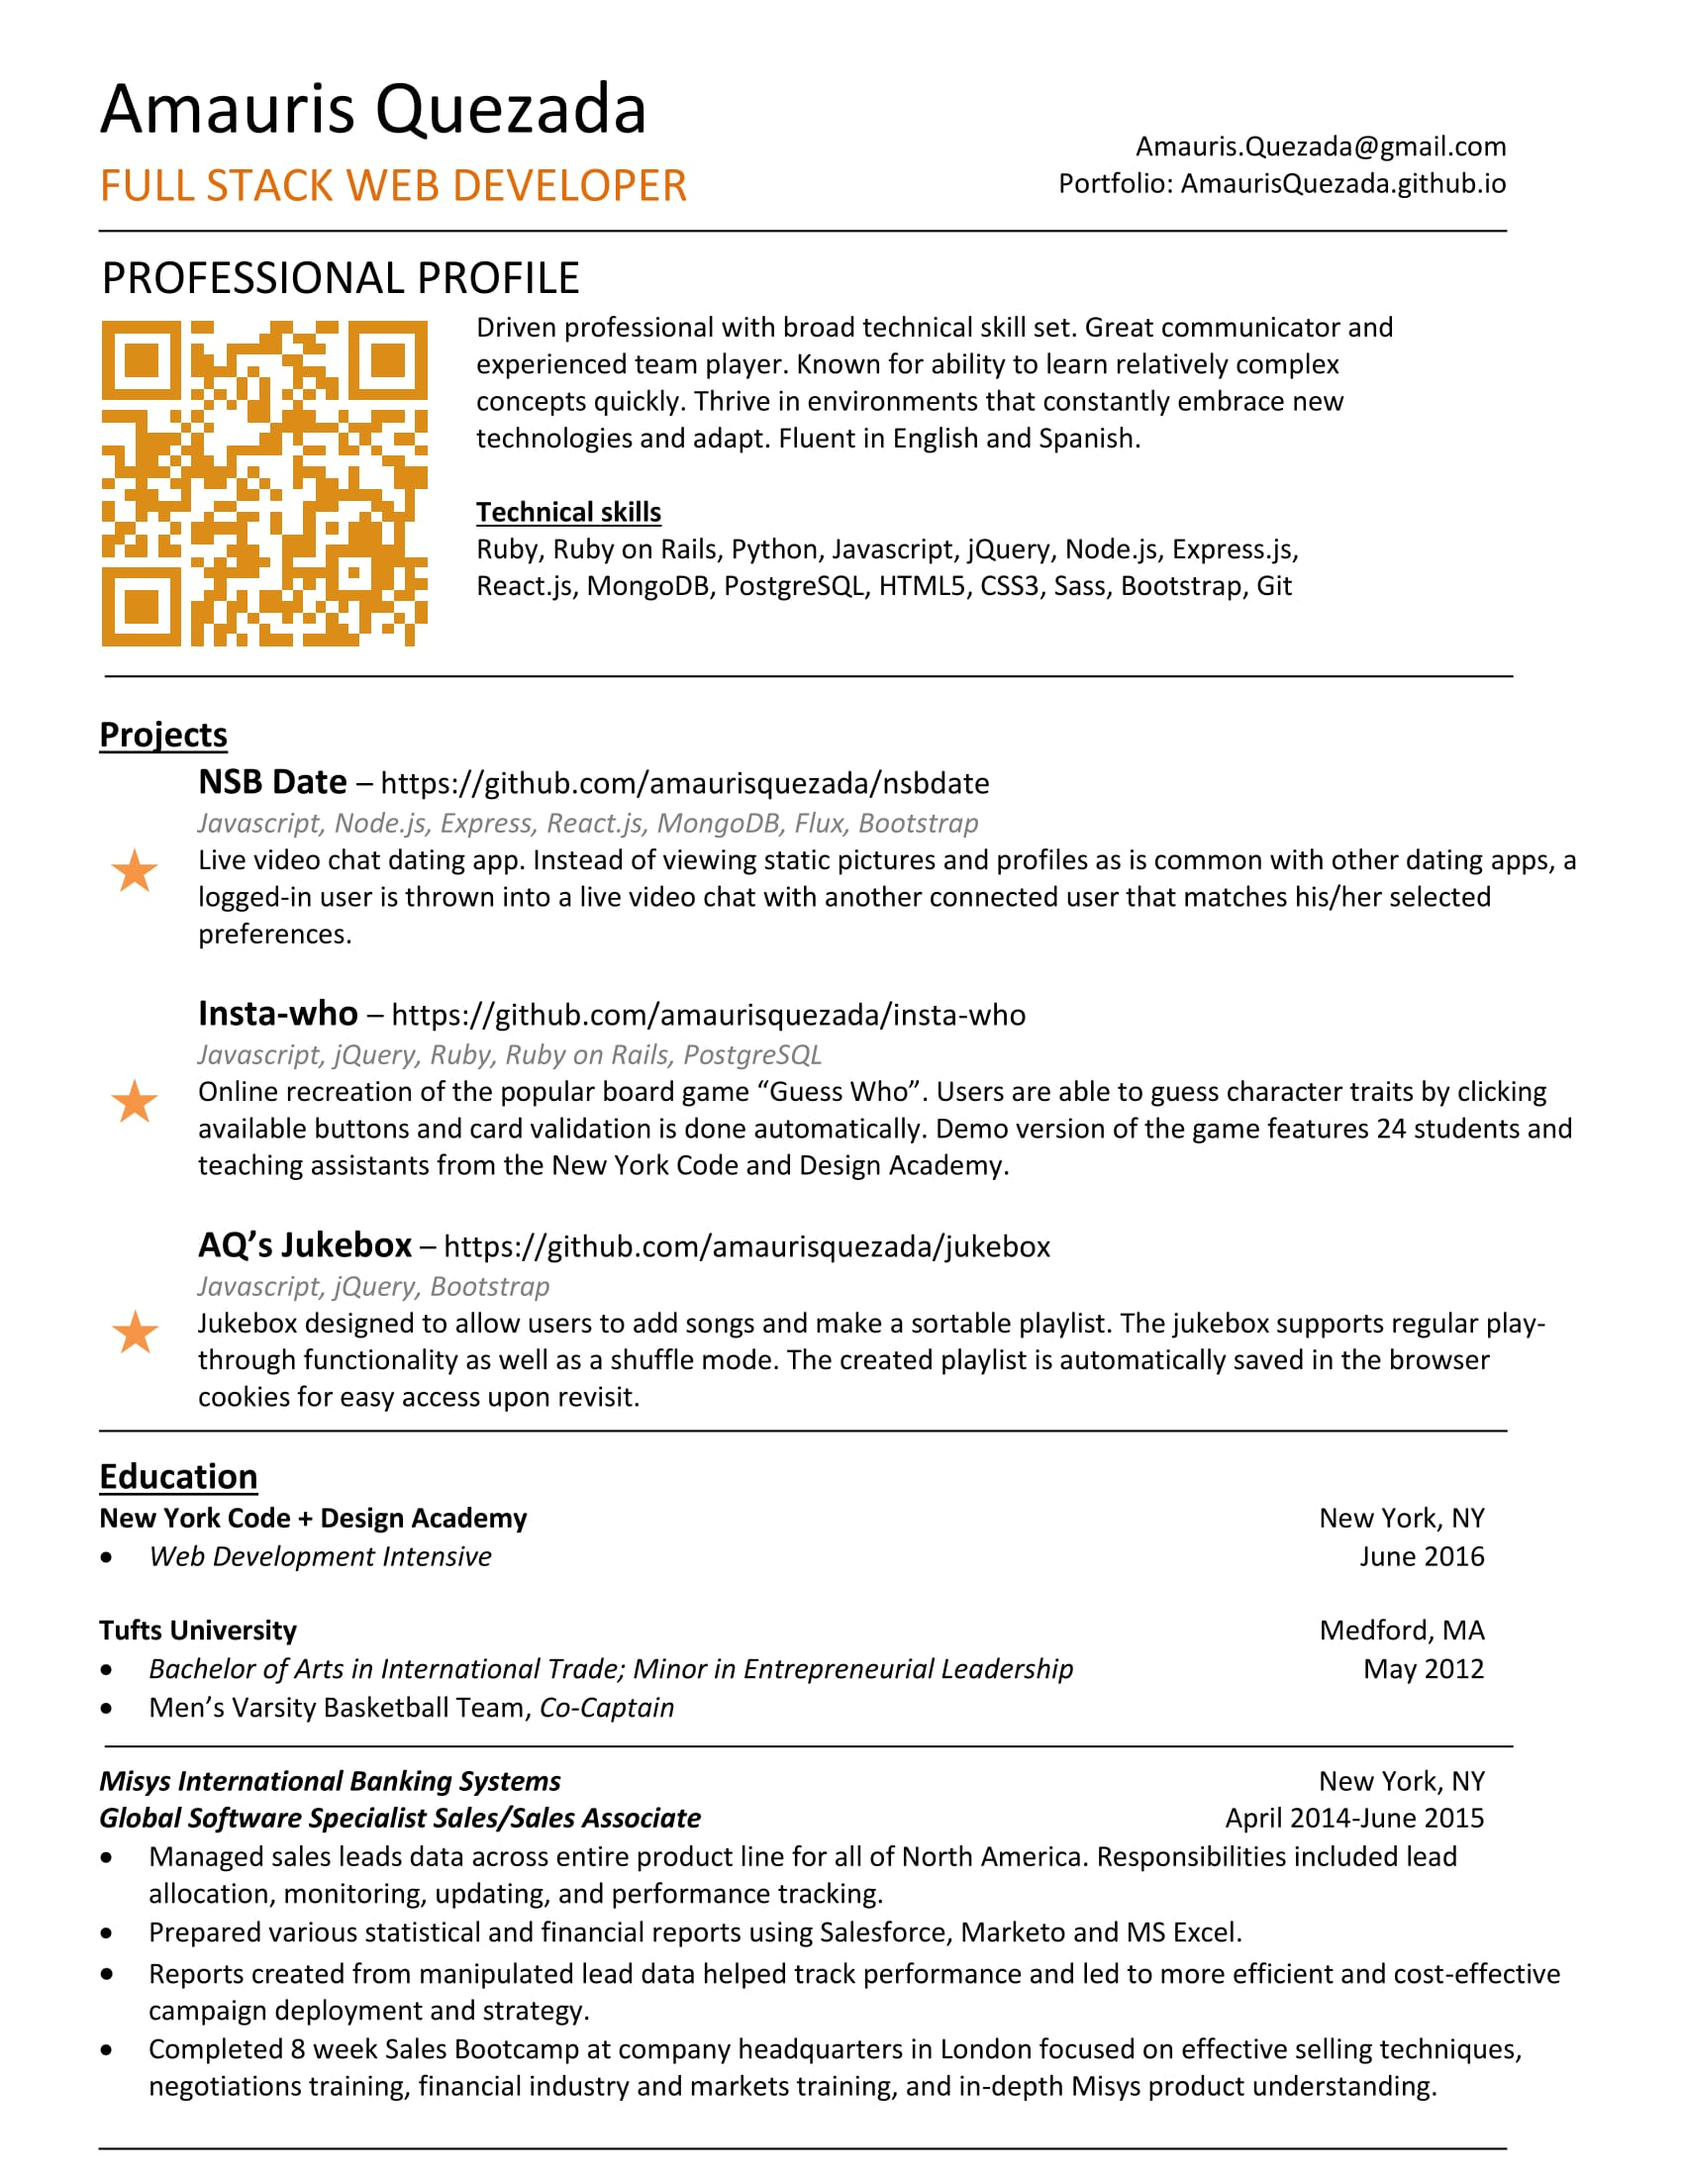
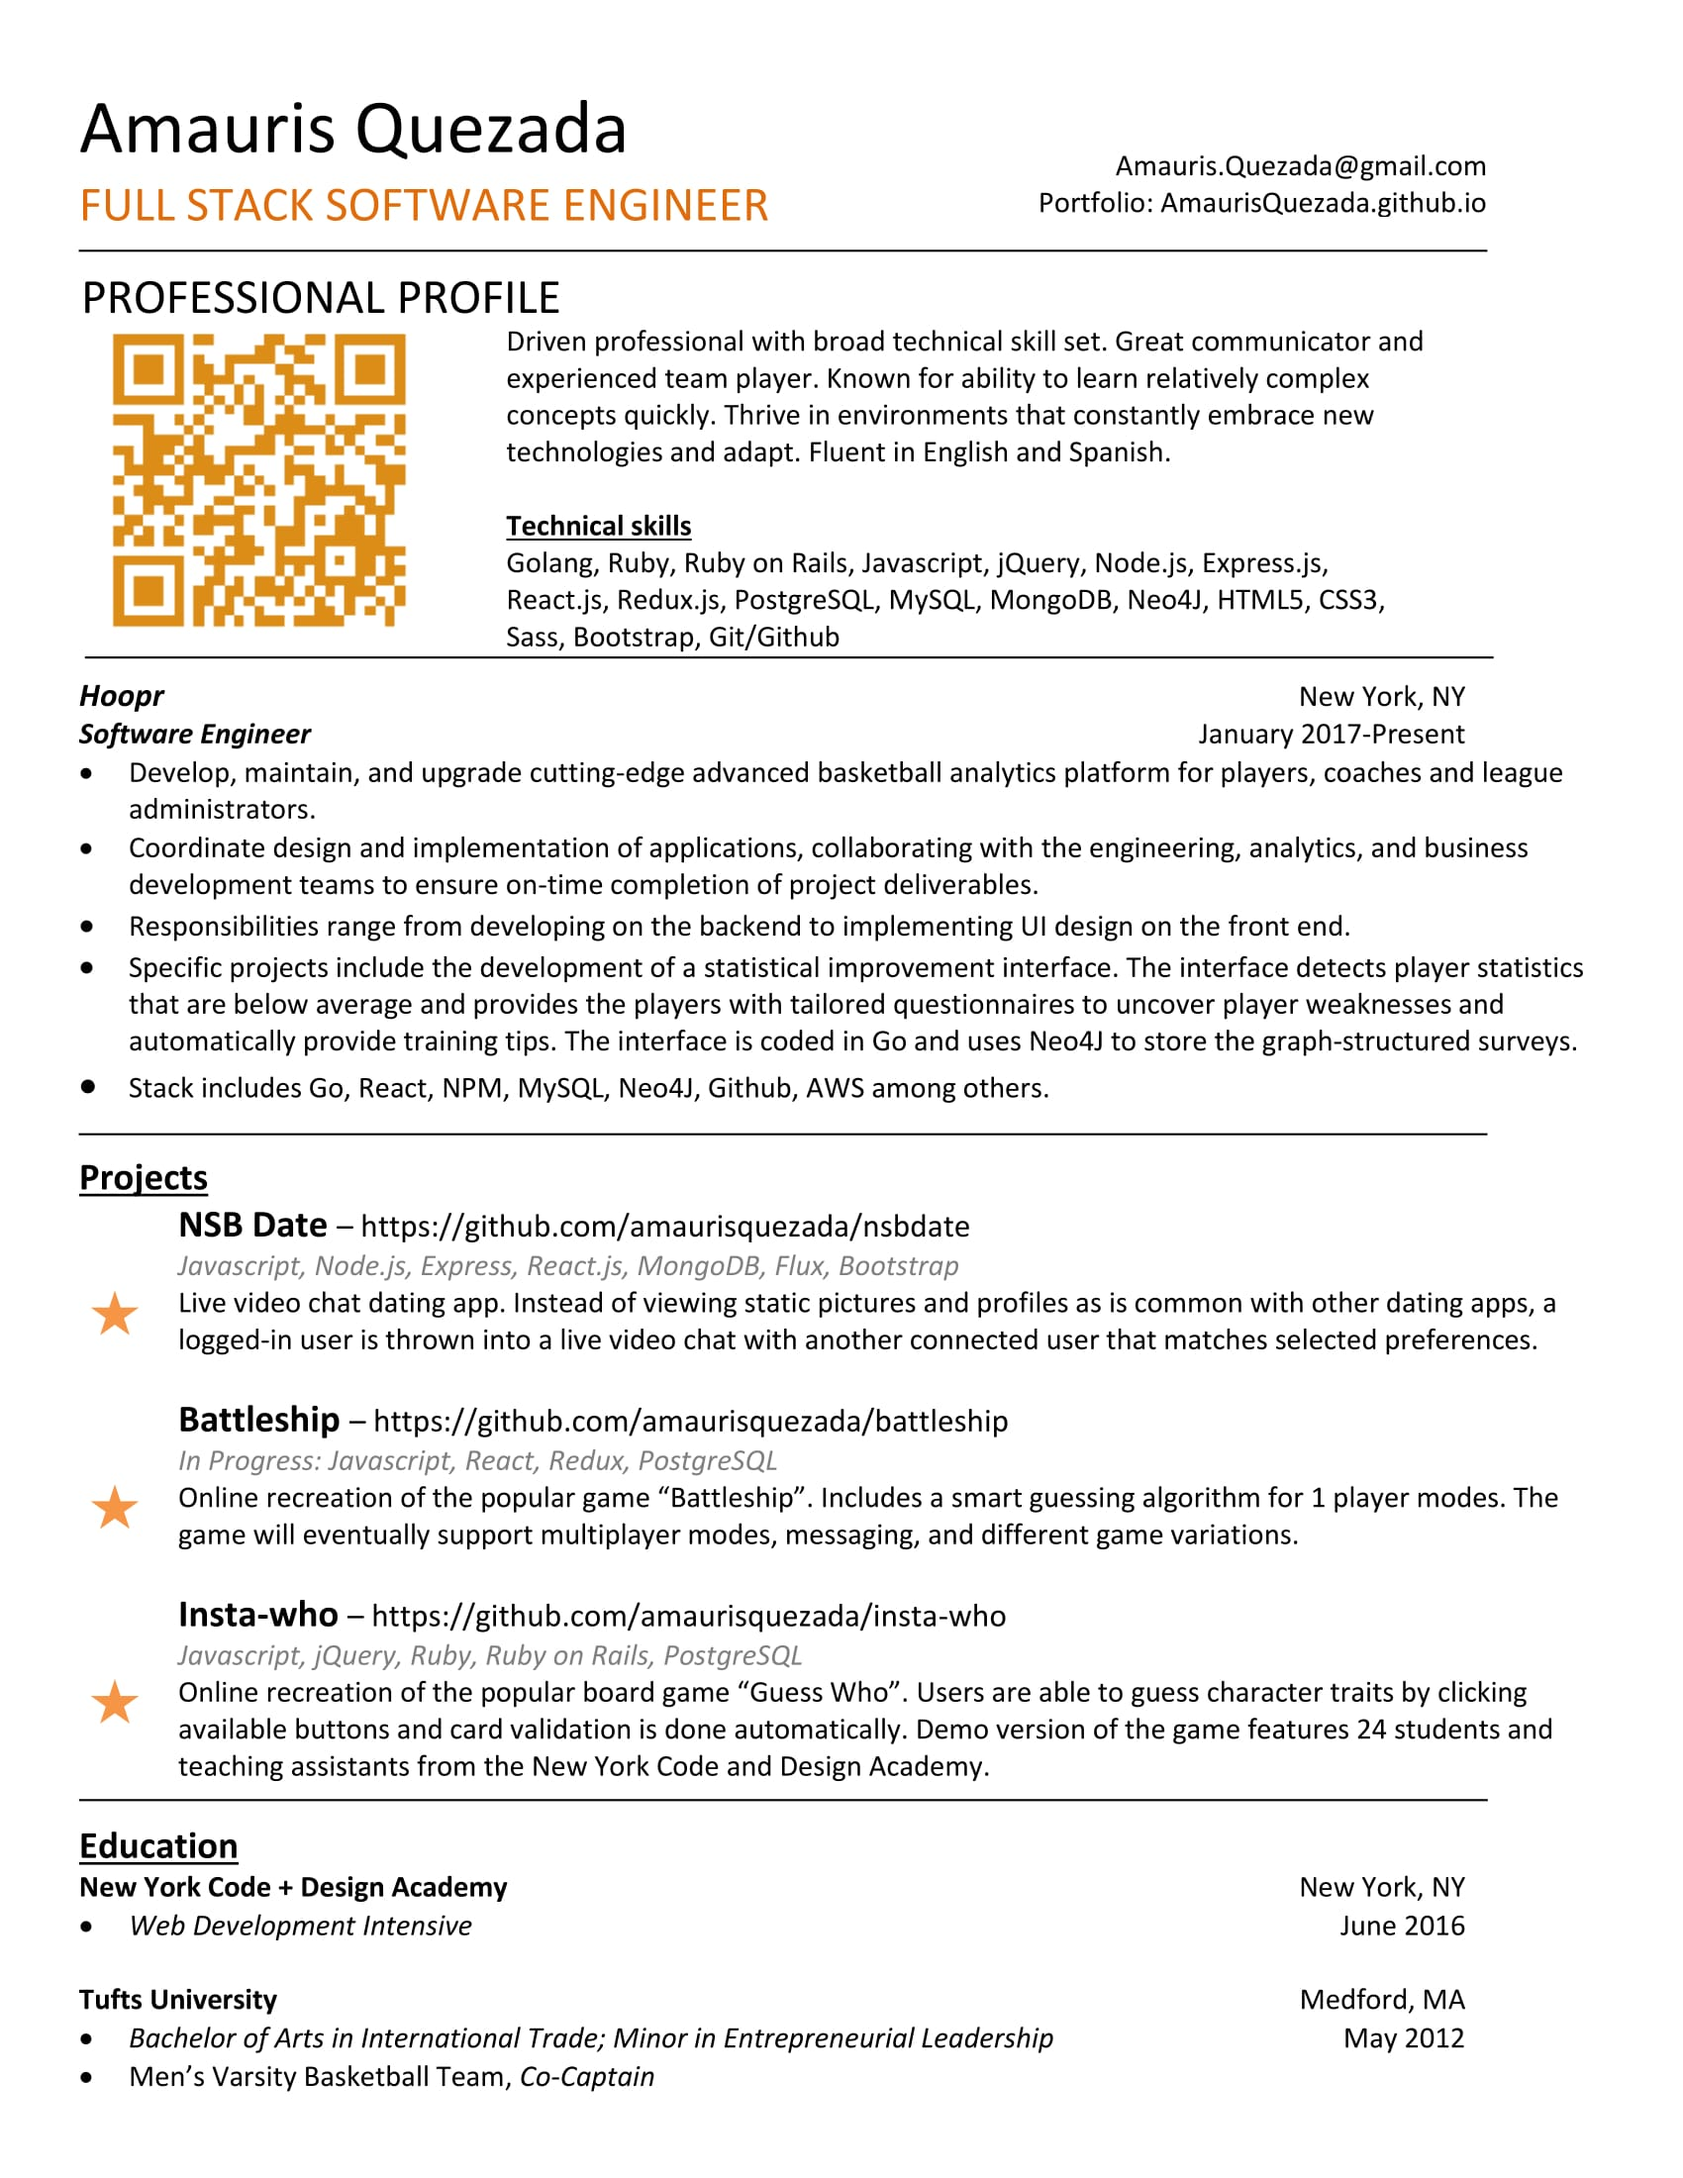
changing resume and projects page

Changed region(s): [[0.0312, 0.0309, 0.9353, 0.9891]]

diff --git a/pages/projects.html b/pages/projects.html
@@ -37,10 +37,10 @@
 					</div>
 				</div>
 				<hr>
-				<div class="pt-wrapper" id="jukebox-wrapper">
-					<a href="https://github.com/amaurisquezada/jukebox" target="_blank"><div class="pt-circle" id="jukebox"><h3 class="p-titles" id="jukebox-title">Amauris' Jukebox</h3></div></a>
-					<div class="pt-text" id="jukebox-text">
-						<p>Amauris' Jukebox is a simple application built with Javascript/jquery. The app allows users to add songs to a tracklist by simply providing valid URLs for the target music files. Once the music files are added to the tracklist, the songs can be played by simply double-clicking the songs. Songs can also be dragged to a playlist where the songs can then be sorted and played through or shuffled. The tracklist is automatically saved to a browser cookie so that one does not have to re-enter song URLs upon every visit.</p>
+				<div class="pt-wrapper" id="battleship-wrapper">
+					<a href="https://github.com/amaurisquezada/battleship" target="_blank"><div class="pt-circle" id="battleship"><h3 class="p-titles" id="battleship-title">BattleShip</h3></div></a>
+					<div class="pt-text" id="battleship-text">
+						<p><span class="itls">In Progress</span><br>Online recreation of "BattleShip". Development already includes AI smart guessing algorithms for one-player modes. Future development will enable support for multiplayer modes, player rankings, chat functionality and different game variations to support increased difficulty. Current stack incldues Javascript, React, Redux, and PostgreSQL. </p>
 					</div>
 				</div>
 			</div>

diff --git a/stylesheets/style.css b/stylesheets/style.css
@@ -188,8 +188,8 @@ nav a{
 	background-size: 100%;
 }
 
-#jukebox {
-	background: url(../images/jb.jpg);
+#battleship {
+	background: url(../images/bship.jpg);
 	background-size: 100%;
 	background-position: center;
 }
@@ -225,7 +225,7 @@ hr {
 	display: none;
 }
 
-#coming-soon, #instawho-title, #jukebox-title{
+#coming-soon, #instawho-title, #battleship-title{
 	color: #F1F5F8;
 	margin: 40% 10%;
 	font-family: 'Nunito', sans-serif;
@@ -441,4 +441,8 @@ nav a span:hover {
 		margin-top: 0vh;
 		margin-bottom: 3vh;
 	}
+}
+
+.itls {
+  font-style: italic;
 }
